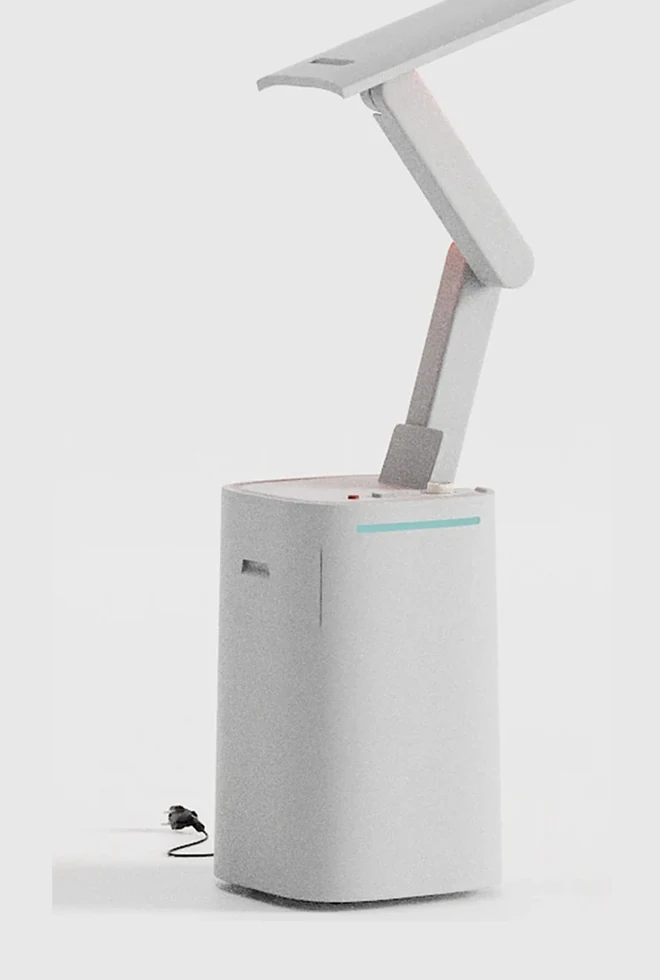
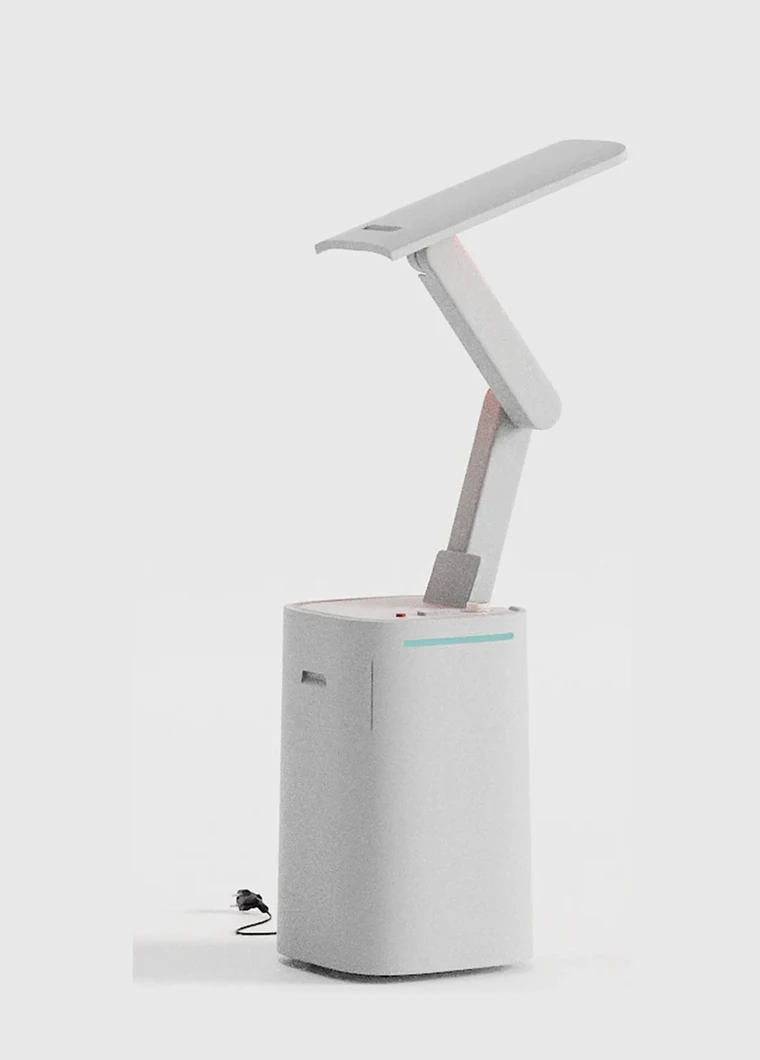
Lumora 使用态/收纳态重做：修正产品边界检测（灯头不再被截），整图缩放不裁切，底座同基线，收纳态略大 8%

Changed region(s): [[0.2424, 0.0, 0.8485, 0.949]]

diff --git a/index.html b/index.html
@@ -690,11 +690,11 @@ alt="DOGGIE 配色与材质方案" loading="lazy"><figcaption>配色与材质方
 
 <div class="step__pair step__media">
 <figure class="media media--zoom media--portrait">
-<img src="./assets/img/id/lumora-eq-a.webp" width="660" height="980"
+<img src="./assets/img/id/lumora-eq-a.webp" width="760" height="1060"
 alt="Lumora 使用态" loading="lazy"><figcaption>使用态</figcaption>
 </figure>
 <figure class="media media--zoom media--portrait">
-<img src="./assets/img/id/lumora-eq-b.webp" width="660" height="980"
+<img src="./assets/img/id/lumora-eq-b.webp" width="760" height="1060"
 alt="Lumora 收纳态" loading="lazy"><figcaption>收纳态</figcaption>
 </figure>
 </div>

diff --git a/assets/js/site.js b/assets/js/site.js
@@ -4,7 +4,7 @@
    ============================================================ */
 (function () {
   'use strict';
-  window.__siteBuild = 'v30-lum-pair';   /* 构建标记：排查缓存用 */
+  window.__siteBuild = 'v31-lum-eq2';   /* 构建标记：排查缓存用 */
   var reduce = window.matchMedia('(prefers-reduced-motion: reduce)');
   var isMobile = function () { return window.innerWidth <= 720; };
 
